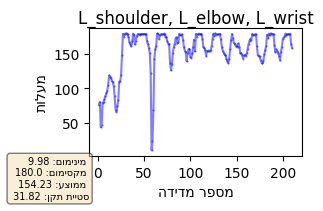
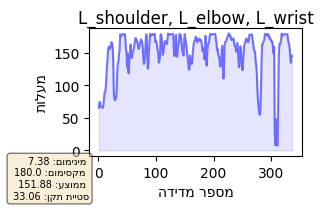
changed the graph to be faster

diff --git a/ScreenNew.py b/ScreenNew.py
@@ -1,5 +1,6 @@
 # -*- coding: utf-8 -*-
 import atexit
+import threading
 import time
 import tkinter as tk
 from datetime import datetime
@@ -10,6 +11,8 @@ import openpyxl
 from gtts import gTTS
 from gtts.tokenizer import Tokenizer
 import os
+import matplotlib
+matplotlib.use('TkAgg')  # Use the TkAgg backend
 
 import cv2
 import pandas as pd
@@ -1434,13 +1437,20 @@ class GraphPage(tk.Frame):
     from PIL import Image, ImageTk
 
     def draw_graph(self, x_values, y_values, graph_name, x_location, y_location, min_val, max_val, average, sd):
+        # Create a background thread for plotting
+        plot_thread = threading.Thread(target=self.plot_graph,
+                                       args=(x_values, y_values, graph_name, min_val, max_val, average, sd, x_location,
+                                             y_location))
+        plot_thread.start()
+
+    def plot_graph(self, x_values, y_values, graph_name, min_val, max_val, average, sd, x_location, y_location):
         # Create a figure and axis with constrained layout
         fig, ax = plt.subplots(figsize=(3, 2), constrained_layout=True)  # Keep the same size
 
-        # Plot the graph with smaller marker size
-        marker_size = 0.5  # Adjust this value as needed to control the marker size relative to the figure size
-        ax.plot(x_values, y_values, marker='o', markersize=marker_size, linestyle='-', color='blue',
-                alpha=0.5)  # Adjust parameters as needed
+        # Plot the graph with line plot and interpolation
+        ax.plot(x_values, y_values, linestyle='-', color='blue', alpha=0.5)  # Line plot instead of markers
+        ax.fill_between(x_values, y_values, color='blue',
+                        alpha=0.1)  # Fill area under the line for better visualization
 
         # Set axis labels
         ax.set_xlabel('הדידמ רפסמ')
@@ -1451,6 +1461,7 @@ class GraphPage(tk.Frame):
         ax.set_title(graph_name, pad=title_padding)
 
         # Display statistics as text on the plot
+        # You may consider removing or simplifying this text display for faster rendering
         text_content = f"{min_val} :םומינימ \n{max_val} :םומיסקמ \n {round(average, 2)} :עצוממ \n {round(sd, 2)} :ןקת תייטס"
         ax.text(0, 0, text_content, transform=ax.transAxes, verticalalignment='top', horizontalalignment='right',
                 fontsize=7, bbox=dict(boxstyle='round', facecolor='wheat', alpha=0.5))
